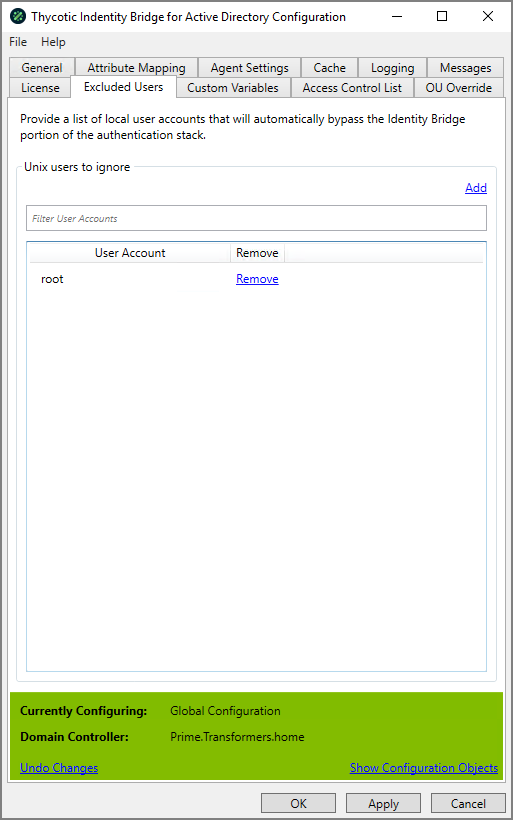
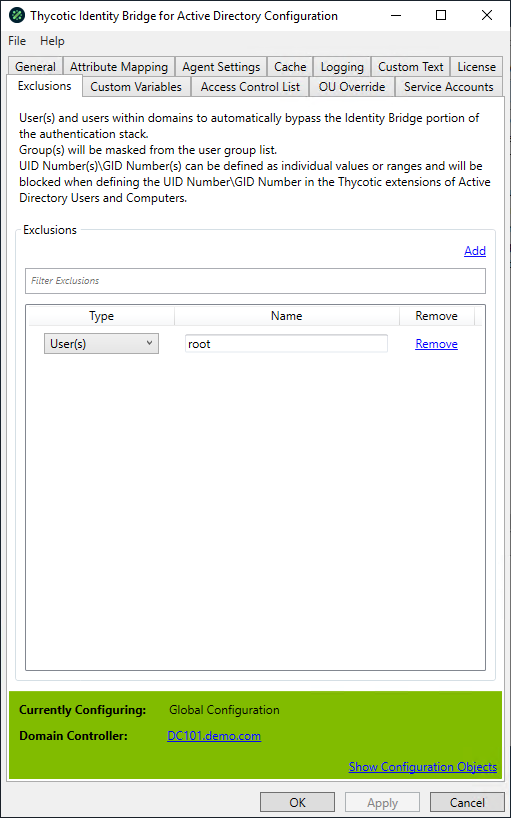
#213999: new screen capture and small text changes

diff --git a/cfg-util/excl-users/index.md b/cfg-util/excl-users/index.md
@@ -36,15 +36,13 @@ Users will automatically bypass the Identity Bridge portion of the authenticatio
 
 UID value/range will be excluded as an applicable value as UID Number in the Thycotic User Data extension of ADUC.
 
-* UID numbers can be defined as a single value, comma separated list or range of values
-* Default: 0 - 500
+* UID numbers can be defined as a single value, comma separated list or range of values.
 
 ### GID(s) Number
 
 GID value/range will be excluded as an applicable value as UID Number in the Thycotic User Data, Thycotic Group Data and Thycotic Overrides extensions of ADUC.
 
-* GID numbers can be defined as a single value, comma separated list or range of values
-* Default: 0 - 500
+* GID numbers can be defined as a single value, comma separated list or range of values.
 
 ### Domain
 
